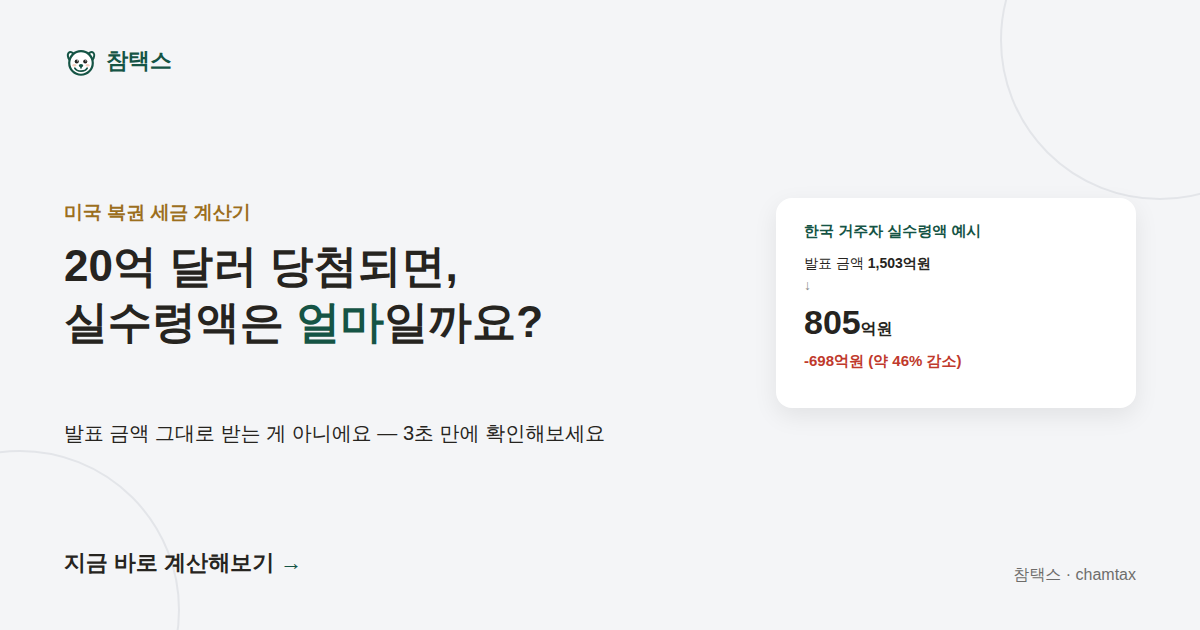
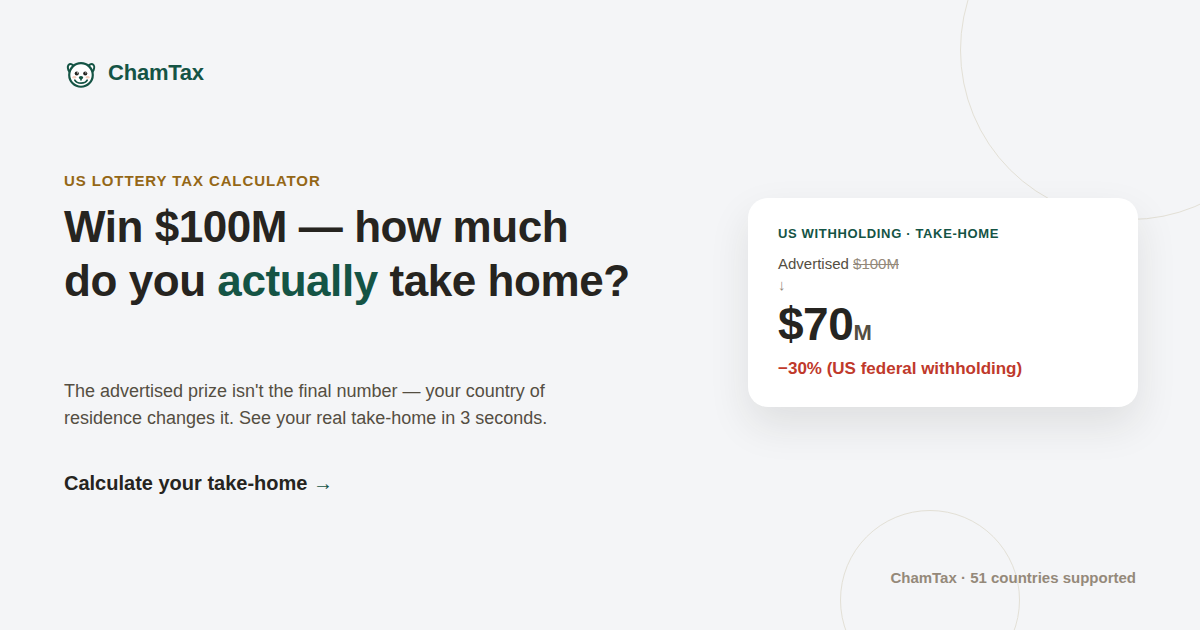
기본 og:image(소셜 공유 카드)가 한국어였던 걸 발견해 국가무관 이미지로 교체 + 병행 세션 병합
index.html의 og:image(카카오톡/트위터/슬랙 공유 미리보기, og-image-hook.png)가
텍스트 메타(Task 2에서 영어 전환)와 달리 이미지 자체는 그대로 한국어("한국 거주자
실수령액 예시", 원화 단위)였음 — 소셜 공유가 가장 많이 노출되는 지점이라 파급력이
큰 발견. Playwright로 새 HTML 목업(기존 로고 SVG·styles.css 색상 토큰 재사용)을
1200×630으로 렌더링해 국가 특정 없는 새 og-image-hook.png로 교체("$100M → 실제
얼마?" + 미국 30% 원천징수 기준선 + "51 countries supported"). 기존 한국어 이미지는
og-image-hook-ko.png로 보존해서, 실제 본문이 한국어인 10개 페이지(<html lang="ko">)는
그쪽을 계속 쓰도록 갱신 — 페이지 언어와 공유 카드 언어가 다시 일치함.

병행 세션(claude/handover-compression-mvp5xz)이 그 사이 만든 잭팟 티저 기능 +
이번 세션 PR #357 병합 + 다크모드 usd-actual-note 대비 수정(내가 고친 줄바꿈 버그와
같은 요소, 다른 문제)을 merge, HANDOFF.md 재압축 중복분 조율(양쪽이 각자 "이어서 7"
라벨을 씀 — 순서대로 재정리).

Claude-Session: https://claude.ai/code/session_01WGYbmNZwSmMK2o1Y6Nj2wf

diff --git a/lottery-jackpot-amount.html b/lottery-jackpot-amount.html
@@ -41,13 +41,13 @@
 <meta property="og:description" content="지금 파워볼·메가밀리언즈 당첨금이 얼마인지, 왜 계속 커지는지 실시간으로 확인하세요. 발표 금액과 실제 받는 금액이 왜 다른지, 세금 떼면 얼마 남는지도 바로 계산해볼 수 있어요.">
 <meta property="og:url" content="https://chamtax.com/lottery-jackpot-amount.html">
 <meta property="og:locale" content="ko_KR">
-<meta property="og:image" content="https://chamtax.com/og-image-hook.png">
+<meta property="og:image" content="https://chamtax.com/og-image-hook-ko.png">
 <meta property="og:image:width" content="1200">
 <meta property="og:image:height" content="630">
 <meta name="twitter:card" content="summary_large_image">
 <meta name="twitter:title" content="파워볼 얼마? 이번 주 당첨금 실시간 확인 (+실수령액 계산) | 참택스">
 <meta name="twitter:description" content="지금 파워볼·메가밀리언즈 당첨금이 얼마인지, 왜 계속 커지는지 실시간으로 확인하세요. 발표 금액과 실제 받는 금액이 왜 다른지, 세금 떼면 얼마 남는지도 바로 계산해볼 수 있어요.">
-<meta name="twitter:image" content="https://chamtax.com/og-image-hook.png">
+<meta name="twitter:image" content="https://chamtax.com/og-image-hook-ko.png">
 <script type="application/ld+json">
 {
   "@context": "https://schema.org",

diff --git a/sitemap.html b/sitemap.html
@@ -63,13 +63,13 @@
 <meta property="og:description" id="sm-og-desc" content="참택스의 모든 페이지를 한눈에 — 계산기, 51개국 거주자별 세금 안내, 36개 언어 가이드, 한국 거주 외국인용 페이지까지 전체 목록이에요.">
 <meta property="og:url" content="https://chamtax.com/sitemap.html">
 <meta property="og:locale" id="sm-og-locale" content="ko_KR">
-<meta property="og:image" content="https://chamtax.com/og-image-hook.png">
+<meta property="og:image" content="https://chamtax.com/og-image-hook-ko.png">
 <meta property="og:image:width" content="1200">
 <meta property="og:image:height" content="630">
 <meta name="twitter:card" content="summary_large_image">
 <meta name="twitter:title" id="sm-tw-title" content="사이트맵 — 전체 페이지 목록 | 참택스">
 <meta name="twitter:description" id="sm-tw-desc" content="참택스의 모든 페이지를 한눈에 — 계산기, 51개국 거주자별 세금 안내, 36개 언어 가이드, 한국 거주 외국인용 페이지까지 전체 목록이에요.">
-<meta name="twitter:image" content="https://chamtax.com/og-image-hook.png">
+<meta name="twitter:image" content="https://chamtax.com/og-image-hook-ko.png">
 <script type="application/ld+json">
 {
   "@context": "https://schema.org",

diff --git a/biggest-jackpot-payouts.html b/biggest-jackpot-payouts.html
@@ -41,13 +41,13 @@
 <meta property="og:description" content="파워볼·메가밀리언즈 역대 최고 잭팟 5건, 세금 떼고 실제로 얼마를 받았는지 한국·미국·중국·인도 거주자 기준으로 정리했어요.">
 <meta property="og:url" content="https://chamtax.com/biggest-jackpot-payouts.html">
 <meta property="og:locale" content="ko_KR">
-<meta property="og:image" content="https://chamtax.com/og-image-hook.png">
+<meta property="og:image" content="https://chamtax.com/og-image-hook-ko.png">
 <meta property="og:image:width" content="1200">
 <meta property="og:image:height" content="630">
 <meta name="twitter:card" content="summary_large_image">
 <meta name="twitter:title" content="역대 최고 잭팟 실수령액 TOP 5 | 참택스">
 <meta name="twitter:description" content="파워볼·메가밀리언즈 역대 최고 잭팟 5건, 세금 떼고 실제로 얼마를 받았는지 한국·미국·중국·인도 거주자 기준으로 정리했어요.">
-<meta name="twitter:image" content="https://chamtax.com/og-image-hook.png">
+<meta name="twitter:image" content="https://chamtax.com/og-image-hook-ko.png">
 <script type="application/ld+json">
 {
   "@context": "https://schema.org",

diff --git a/korea-resident-us-lottery-tax.html b/korea-resident-us-lottery-tax.html
@@ -66,13 +66,13 @@
 <meta property="og:description" content="한국 거주자가 미국 복권에 당첨되면? 이중과세·외국납부세액공제·종합소득세 신고 기준을 실제 계산기로 확인해보세요.">
 <meta property="og:url" content="https://chamtax.com/korea-resident-us-lottery-tax.html">
 <meta property="og:locale" content="ko_KR">
-<meta property="og:image" content="https://chamtax.com/og-image-hook.png">
+<meta property="og:image" content="https://chamtax.com/og-image-hook-ko.png">
 <meta property="og:image:width" content="1200">
 <meta property="og:image:height" content="630">
 <meta name="twitter:card" content="summary_large_image">
 <meta name="twitter:title" content="한국 거주자 미국 복권 세금 완벽정리 2026 | 참택스">
 <meta name="twitter:description" content="한국 거주자가 미국 복권에 당첨되면? 이중과세·외국납부세액공제·종합소득세 신고 기준을 실제 계산기로 확인해보세요.">
-<meta name="twitter:image" content="https://chamtax.com/og-image-hook.png">
+<meta name="twitter:image" content="https://chamtax.com/og-image-hook-ko.png">
 <script type="application/ld+json">
 {
   "@context": "https://schema.org",

diff --git a/powerball-tax.html b/powerball-tax.html
@@ -40,13 +40,13 @@
 <meta property="og:description" content="파워볼 당첨되면 미국에서 30% 원천징수, 한국에서 추가 과세돼요. 한국 거주자 기준 실수령액을 10초 만에 계산해보세요.">
 <meta property="og:url" content="https://chamtax.com/powerball-tax.html">
 <meta property="og:locale" content="ko_KR">
-<meta property="og:image" content="https://chamtax.com/og-image-hook.png">
+<meta property="og:image" content="https://chamtax.com/og-image-hook-ko.png">
 <meta property="og:image:width" content="1200">
 <meta property="og:image:height" content="630">
 <meta name="twitter:card" content="summary_large_image">
 <meta name="twitter:title" content="파워볼 세금 얼마나 떼요? 한국인 기준 실수령액 계산 | 참택스">
 <meta name="twitter:description" content="파워볼 당첨되면 미국에서 30% 원천징수, 한국에서 추가 과세돼요. 한국 거주자 기준 실수령액을 10초 만에 계산해보세요.">
-<meta name="twitter:image" content="https://chamtax.com/og-image-hook.png">
+<meta name="twitter:image" content="https://chamtax.com/og-image-hook-ko.png">
 <script type="application/ld+json">
 {
   "@context": "https://schema.org",

diff --git a/megamillions-tax.html b/megamillions-tax.html
@@ -40,13 +40,13 @@
 <meta property="og:description" content="메가밀리언즈 당첨금, 세금 떼고 실제로 얼마 받는지 확인하세요. 미국 원천징수부터 한국 이중과세까지 한 번에 계산.">
 <meta property="og:url" content="https://chamtax.com/megamillions-tax.html">
 <meta property="og:locale" content="ko_KR">
-<meta property="og:image" content="https://chamtax.com/og-image-hook.png">
+<meta property="og:image" content="https://chamtax.com/og-image-hook-ko.png">
 <meta property="og:image:width" content="1200">
 <meta property="og:image:height" content="630">
 <meta name="twitter:card" content="summary_large_image">
 <meta name="twitter:title" content="메가밀리언즈 세금 계산 - 한국 거주자 실수령액 | 참택스">
 <meta name="twitter:description" content="메가밀리언즈 당첨금, 세금 떼고 실제로 얼마 받는지 확인하세요. 미국 원천징수부터 한국 이중과세까지 한 번에 계산.">
-<meta name="twitter:image" content="https://chamtax.com/og-image-hook.png">
+<meta name="twitter:image" content="https://chamtax.com/og-image-hook-ko.png">
 <script type="application/ld+json">
 {
   "@context": "https://schema.org",

diff --git a/us-lottery-basics.html b/us-lottery-basics.html
@@ -65,13 +65,13 @@
 <meta property="og:description" content="파워볼·메가밀리언즈가 뭔지, 어떻게 하는지 하나도 모르는 분들을 위한 입문 가이드 — 당첨 시 세금도 바로 계산해봐요.">
 <meta property="og:url" content="https://chamtax.com/us-lottery-basics.html">
 <meta property="og:locale" content="ko_KR">
-<meta property="og:image" content="https://chamtax.com/og-image-hook.png">
+<meta property="og:image" content="https://chamtax.com/og-image-hook-ko.png">
 <meta property="og:image:width" content="1200">
 <meta property="og:image:height" content="630">
 <meta name="twitter:card" content="summary_large_image">
 <meta name="twitter:title" content="미국 로또 파워볼·메가밀리언즈 초보 가이드">
 <meta name="twitter:description" content="파워볼·메가밀리언즈가 뭔지, 어떻게 하는지 하나도 모르는 분들을 위한 입문 가이드 — 당첨 시 세금도 바로 계산해봐요.">
-<meta name="twitter:image" content="https://chamtax.com/og-image-hook.png">
+<meta name="twitter:image" content="https://chamtax.com/og-image-hook-ko.png">
 <script type="application/ld+json">
 {
   "@context": "https://schema.org",

diff --git a/korean_abroad_us_lottery_tax_ko.html b/korean_abroad_us_lottery_tax_ko.html
@@ -41,13 +41,13 @@
 <meta property="og:description" content="해외에 사는 한국 국적자가 미국 복권에 당첨되면 국세청에 신고해야 할까요? 거주자 판정 기준부터 정리했어요.">
 <meta property="og:url" content="https://chamtax.com/korean_abroad_us_lottery_tax_ko.html">
 <meta property="og:locale" content="ko_KR">
-<meta property="og:image" content="https://chamtax.com/og-image-hook.png">
+<meta property="og:image" content="https://chamtax.com/og-image-hook-ko.png">
 <meta property="og:image:width" content="1200">
 <meta property="og:image:height" content="630">
 <meta name="twitter:card" content="summary_large_image">
 <meta name="twitter:title" content="해외 거주 한국인 미국 복권 세금 정리">
 <meta name="twitter:description" content="해외에 사는 한국 국적자가 미국 복권에 당첨되면 국세청에 신고해야 할까요? 거주자 판정 기준부터 정리했어요.">
-<meta name="twitter:image" content="https://chamtax.com/og-image-hook.png">
+<meta name="twitter:image" content="https://chamtax.com/og-image-hook-ko.png">
 <script type="application/ld+json">
 {
   "@context": "https://schema.org",

diff --git a/us-lottery-tax-rate.html b/us-lottery-tax-rate.html
@@ -40,13 +40,13 @@
 <meta property="og:description" content="미국 복권 당첨금에 적용되는 연방세, 주세, 비거주 외국인 원천징수율을 한눈에 정리했어요.">
 <meta property="og:url" content="https://chamtax.com/us-lottery-tax-rate.html">
 <meta property="og:locale" content="ko_KR">
-<meta property="og:image" content="https://chamtax.com/og-image-hook.png">
+<meta property="og:image" content="https://chamtax.com/og-image-hook-ko.png">
 <meta property="og:image:width" content="1200">
 <meta property="og:image:height" content="630">
 <meta name="twitter:card" content="summary_large_image">
 <meta name="twitter:title" content="미국 복권 세율 정리 (연방세·주세·비거주자) | 참택스">
 <meta name="twitter:description" content="미국 복권 당첨금에 적용되는 연방세, 주세, 비거주 외국인 원천징수율을 한눈에 정리했어요.">
-<meta name="twitter:image" content="https://chamtax.com/og-image-hook.png">
+<meta name="twitter:image" content="https://chamtax.com/og-image-hook-ko.png">
 <script type="application/ld+json">
 {
   "@context": "https://schema.org",

diff --git a/us-lottery-take-home.html b/us-lottery-take-home.html
@@ -40,13 +40,13 @@
 <meta property="og:description" content="발표된 잭팟 금액과 실제 받는 돈은 달라요. 일시불·연금 방식별 실수령액을 바로 계산해보세요.">
 <meta property="og:url" content="https://chamtax.com/us-lottery-take-home.html">
 <meta property="og:locale" content="ko_KR">
-<meta property="og:image" content="https://chamtax.com/og-image-hook.png">
+<meta property="og:image" content="https://chamtax.com/og-image-hook-ko.png">
 <meta property="og:image:width" content="1200">
 <meta property="og:image:height" content="630">
 <meta name="twitter:card" content="summary_large_image">
 <meta name="twitter:title" content="미국 복권 당첨금 실수령액 계산기 | 참택스">
 <meta name="twitter:description" content="발표된 잭팟 금액과 실제 받는 돈은 달라요. 일시불·연금 방식별 실수령액을 바로 계산해보세요.">
-<meta name="twitter:image" content="https://chamtax.com/og-image-hook.png">
+<meta name="twitter:image" content="https://chamtax.com/og-image-hook-ko.png">
 <script type="application/ld+json">
 {
   "@context": "https://schema.org",
